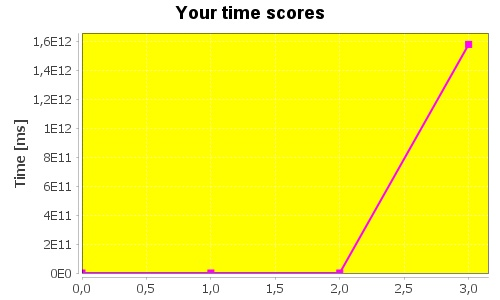
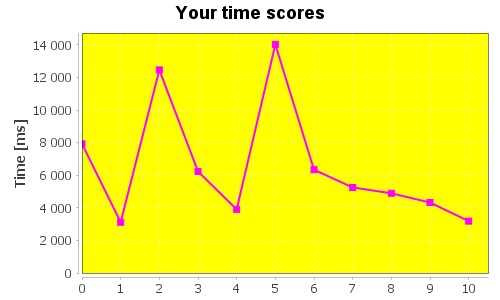
last changes

diff --git a/src/game/Game.java b/src/game/Game.java
@@ -73,7 +73,7 @@ public class Game extends JPanel implements KeyListener, MouseListener,MouseMoti
         addMouseListener(this);//dodany dla obiektu Game poniewaz dziedziczy on z Jpanel a w zalozeniu mechaniki gry operujemy na wspolrzednych panelu a nie okna
         addMouseMotionListener(this);
         GS = new GameState();
-        pattern=new Pattern(launcher.patternElements[0],launcher.patternElements[1],launcher.patternElements[2],500,395,300,500,this);
+        pattern=new Pattern(launcher.patternElements[0],launcher.patternElements[1],launcher.patternElements[2],525,420,250,450,this);
         ChartPanel chartPanel = new ChartPanel(GS.chart1);
         add(chartPanel);
         soundGood=new Sound("src/audio/good.wav");
@@ -218,7 +218,7 @@ public class Game extends JPanel implements KeyListener, MouseListener,MouseMoti
                 g.drawImage(launcher.background1, 0, 0, null);
                 g.setFont(new Font("Helvetica", Font.PLAIN, 30));
                 g.drawString("Place products from recipe to a bowl",350,50);
-                g.drawString("You'll find all products while u click right panel",350,100);
+                g.drawString("To find all products click right panel",350,100);
 
                 g.drawImage(launcher.bowl, 450, 500, null);
                 for (int i = 0; i < 10; i++) {//rysowanie produktow
@@ -239,8 +239,8 @@ public class Game extends JPanel implements KeyListener, MouseListener,MouseMoti
                 recipe.display(g, 27, 5, 200);
                 if(showdetails) {
                     g.setFont(new Font("Helvetica", Font.PLAIN, 36));
-                    g.drawString("Average response time:" +GS.avgScore + "s",350,410);
-                    g.drawString("Averge precision: " + GS.avgPrecision,350,460);
+                    g.drawString("Average response time:" +String.format("%.2f",GS.avgScore) + "s",350,410);
+                    g.drawString("Averge precision: " + String.format("%.2f",GS.avgPrecision),350,460);
                     //rysowanie wykresow
                     Graphics2D g2 = (Graphics2D) g;
                     GS.chart1.draw(g2, new Rectangle(310, 480, 400, 300));
@@ -277,6 +277,8 @@ public class Game extends JPanel implements KeyListener, MouseListener,MouseMoti
                 g.setFont(new Font("Helvetica", Font.PLAIN, 30));
                 g.drawString("Slice the cake by pressing mouse button",350,50);
                 g.drawString("Try to slice as close to blue line as it's possible",350,100);
+                g.setColor(Color.BLUE);
+                g.drawLine(400,650,1000,650);
                 Point i = new Point(400,650); //wcześniejszy punkt
                 g.setColor(Color.WHITE);
                 if (cutPoints!=null){
@@ -284,8 +286,7 @@ public class Game extends JPanel implements KeyListener, MouseListener,MouseMoti
                         g.drawLine(i.x,i.y,j.x,j.y);
                         i.setLocation(j.x,j.y);
                     }}
-                g.setColor(Color.BLUE);
-                g.drawLine(400,650,1000,650);
+
                 recipe.display(g, 27, 5, 200);
                 break;
             case 9:
@@ -304,8 +305,8 @@ public class Game extends JPanel implements KeyListener, MouseListener,MouseMoti
                 g.setFont(new Font("Helvetica", Font.PLAIN, 36));
                 g.drawString("Congratulations! Level " + GS.level + " complete",350,200);
                 if(showdetails) {
-                    g.drawString("Average response time:" +GS.avgScore + "s",350,410);
-                    g.drawString("Averge precision: " + GS.avgPrecision,500,460);
+                    g.drawString("Average response time:" +String.format("%.2f",GS.avgScore) + "s",350,410);
+                    g.drawString("Averge precision: " + String.format("%.2f",GS.avgPrecision),350,460);
                     //rysowanie wykresow
                     Graphics2D g2 = (Graphics2D) g;
                     GS.chart1.draw(g2, new Rectangle(310, 480, 400, 300));
@@ -445,7 +446,7 @@ public class Game extends JPanel implements KeyListener, MouseListener,MouseMoti
     private void MenuEvents(MouseEvent e)
     {
         int buttonh=125;
-        int buttonw=120;
+        int buttonw=450;
         int n=1;
         if (e.getX() > 420 && e.getX() < 420+buttonw && e.getY() > 30 && e.getY() < 30+buttonh*n++) {
             GS.goToPrewTask();

diff --git a/src/game/GameState.java b/src/game/GameState.java
@@ -42,7 +42,7 @@ public class GameState {
         level=1;
         task=0;
         prewiousTask=0;
-        termospeed=25;
+        termospeed=10;
         scores=new Stack<>();
         precision=new Stack<>();
 
@@ -196,8 +196,8 @@ public class GameState {
     /**zwiekszenie poziomu i modyfikacja parametrow z nim zwiazanych*/
     public void levelUp(){
         level++;
-        termospeed+=termospeed+10*level;
-        if (termospeed>60) termospeed=65;
+        termospeed+=termospeed+2*(level-1);
+        if (termospeed>20) termospeed=25;
         task=1;
         prewiousTask=1;
 
